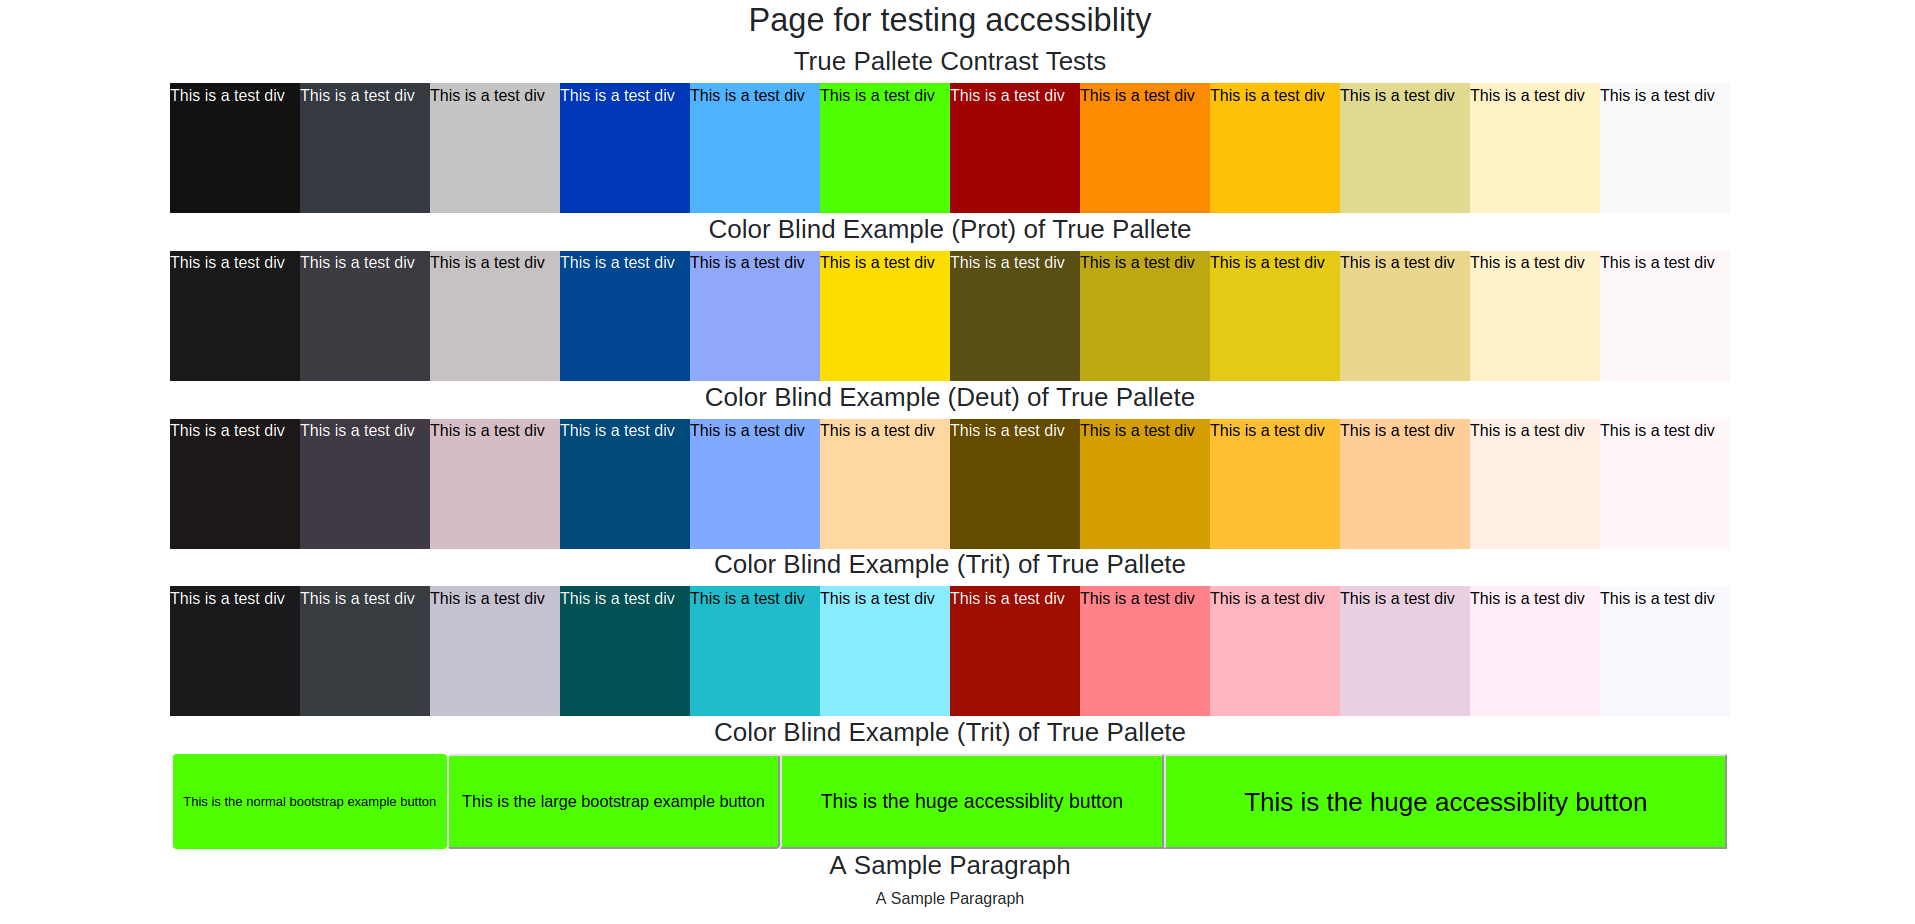
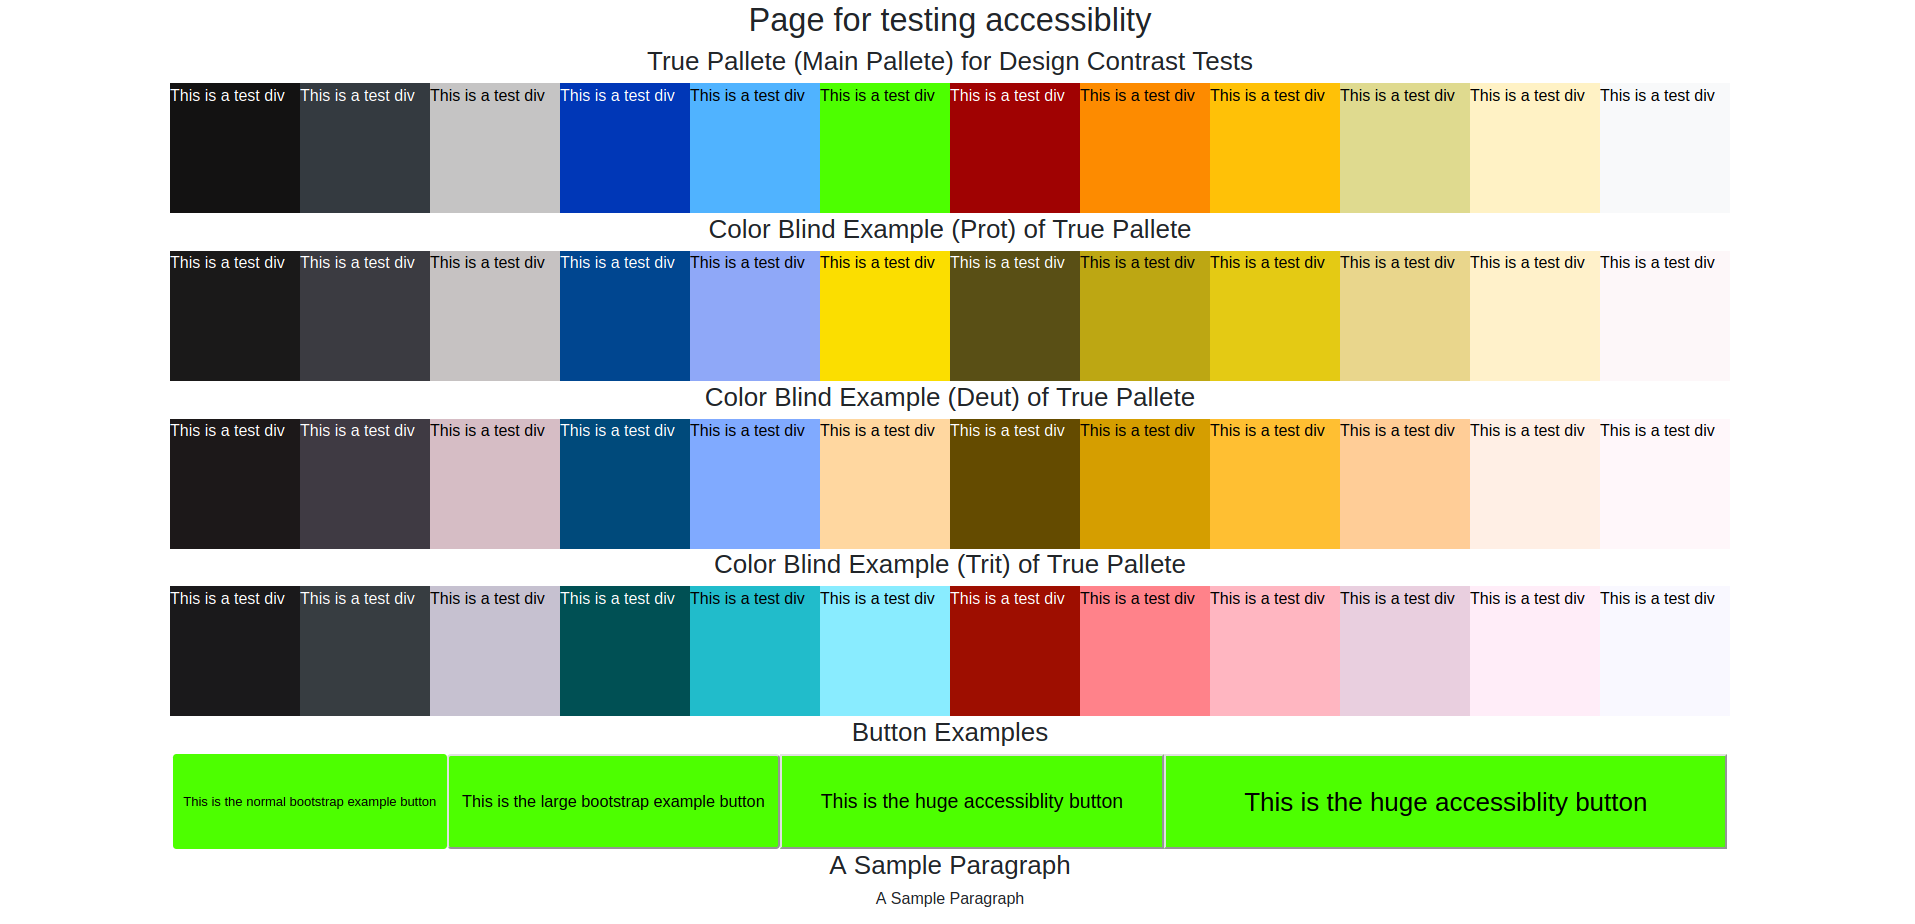
Fixed some typos and updated readme

Changed region(s): [[0.3389, 0.0606, 0.647, 0.0909], [0.3697, 0.7879, 0.6162, 0.8182]]

diff --git a/index.html b/index.html
@@ -9,7 +9,7 @@
 </head>
 <body>
     <h1 class="text-center">Page for testing accessiblity</h1>
-    <h2 class="text-center">True Pallete Contrast Tests</h2>
+    <h2 class="text-center">True Pallete (Main Pallete) for Design Contrast Tests</h2>
     <div class="row justify-content-center">
         <div class="test-div color-acc-black">This is a test div</div>
         <div class="test-div color-acc-dark-gray">This is a test div</div>
@@ -69,16 +69,16 @@
         <div class="test-div color-acc-trit-sand">This is a test div</div>
         <div class="test-div color-acc-trit-white">This is a test div</div>
     </div>
-    <h2 class="text-center">Color Blind Example (Trit) of True Pallete</h2>
+    <h2 class="text-center">Button Examples</h2>
     <div class="row justify-content-center">
         <button class="btn color-acc-green">This is the normal bootstrap example button</button>
         <button class="btn-lg color-acc-green">This is the large bootstrap example button</button>
         <button class="btn-huge color-acc-green">This is the huge accessiblity button </button>
         <button class="btn-monster color-acc-green">This is the huge accessiblity button </button>
     </div>
-    <h2 class="text-center"> A Sample Paragraph</h2>
+    <h2 class="text-center">A Sample Paragraph</h2>
     <div class="row justify-content-center">
-          <p>  A Sample Paragraph</p>
+          <p> A Sample Paragraph</p>
     </div>
 </body>
 </html>

diff --git a/README.md b/README.md
@@ -1,13 +1,14 @@
 # This project is to test various accessiblity practices, and to provide additional accessibility options for commonly used tools such as boot strap.
 
-Currently the following issues have been addressed as far boot strap and or accessiblity:
+### Currently the following issues have been addressed as far boot strap and or accessiblity:
 1. Bootstrap's contrast issue with its default color values.
 2. Additional button sizes for larger button sizes.
 3. Increased font sizes for body, paragraphs.
 4. A More universal color pallete which better supports designing for color blindness and reability and contrast with color blindness.
 
-## Current Screen Shot:
+### Currently planned issues to test and address:
+1. Better Audio and visual feedback testing for website design.
+
+### Current Screen Shot:
 ![picture](img/access-sample.png)
 
-## Currently planned issues to test and address:
-1. Better Audio and visual feedback testing for website design.
